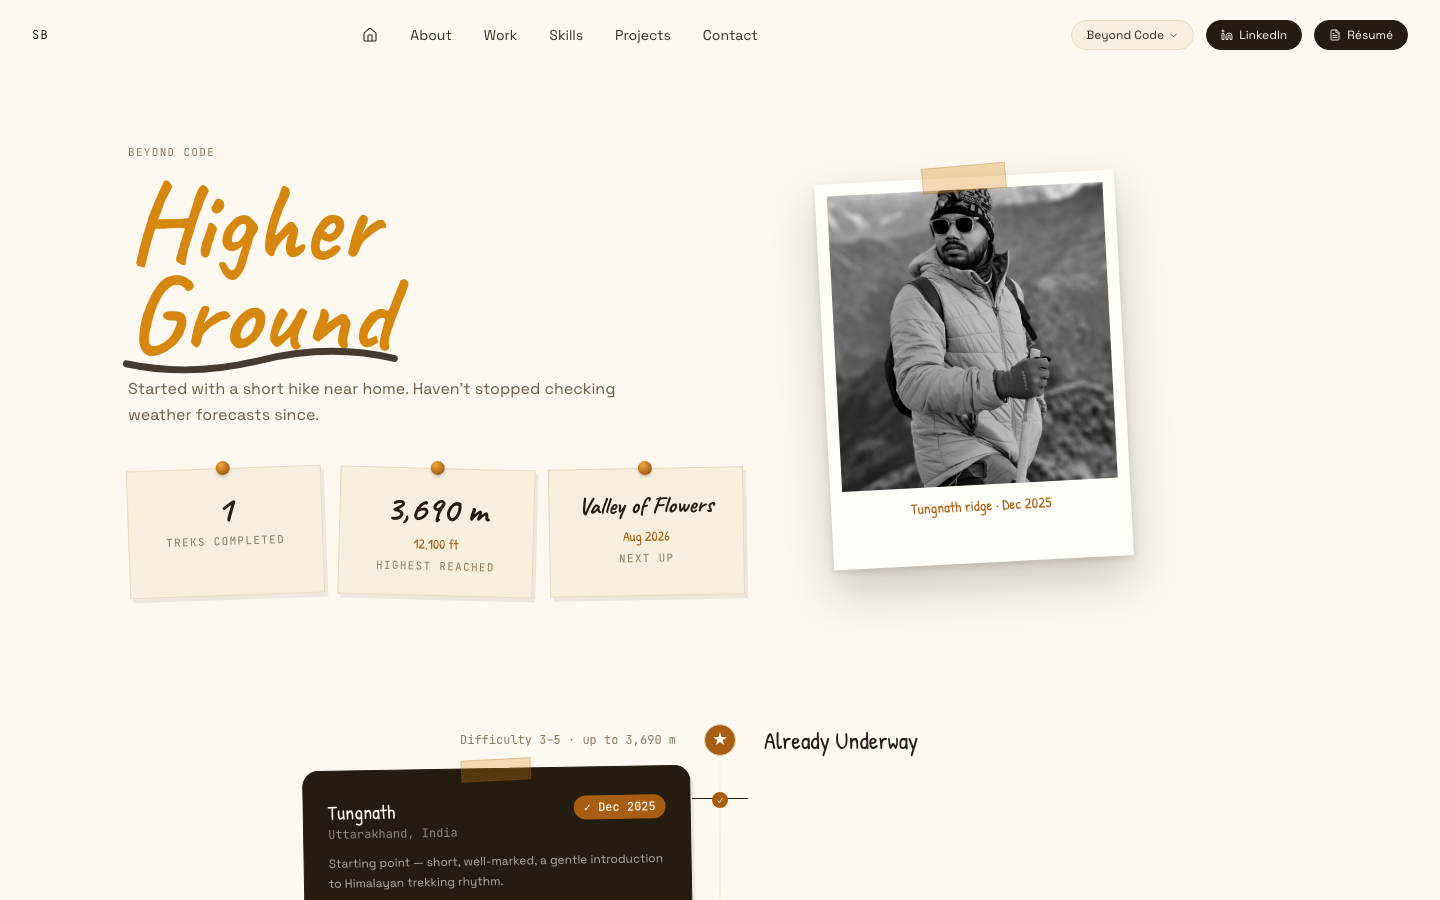
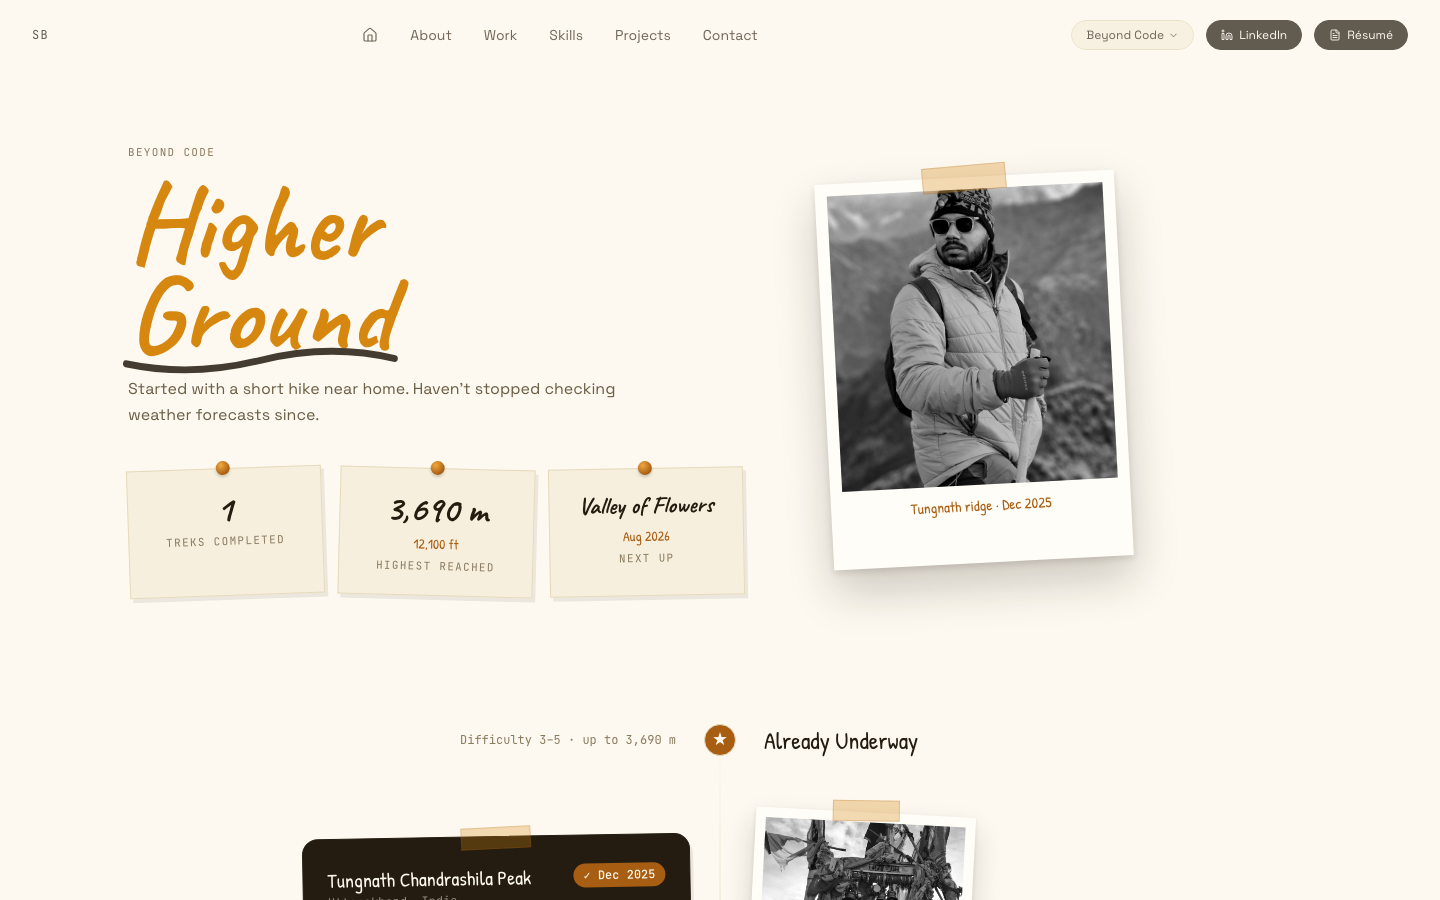
Update README and screenshots to match current design

diff --git a/README.md b/README.md
@@ -37,9 +37,10 @@
 - **Content-driven** — every section (name, work history, skills, projects,
   achievements, contact links, trek log) is data, not markup. Edit one JSON
   file, the whole site updates.
-- **Two visual registers, one site** — a clean, professional main page for
-  recruiters, and a full scrapbook/notebook treatment (torn-paper section
-  tags, pinned photo, hand-drawn circles) on the `/treks` hobby page.
+- **A notebook, not a template** — a tilted dot-grid background, hand-drawn
+  doodles, and torn-paper seams between sections run through the whole site,
+  not just the `/treks` hobby page (which goes further still: pinned trek
+  photos hanging off the timeline, washi tape, hand-drawn circles).
 - **A hand-drawn ink circle that isn't fake** — the emphasis marks around key
   numbers are generated at runtime from the actual rendered text size, so
   short and long values each get a naturally-proportioned, slightly-different
@@ -95,7 +96,10 @@ src/data/profile.json
 
 Edit that file and the site updates; no need to touch component code for
 content changes. Images live in `src/assets/images/` and are referenced from
-there.
+there. Trek photos are the one exception worth knowing: drop a file into
+`src/assets/images/treks/` and set `"photo": "filename"` (no extension) on
+that trek's entry in `profile.json` — it's picked up automatically via
+`import.meta.glob`, no component code to touch.
 
 ## Project structure
 